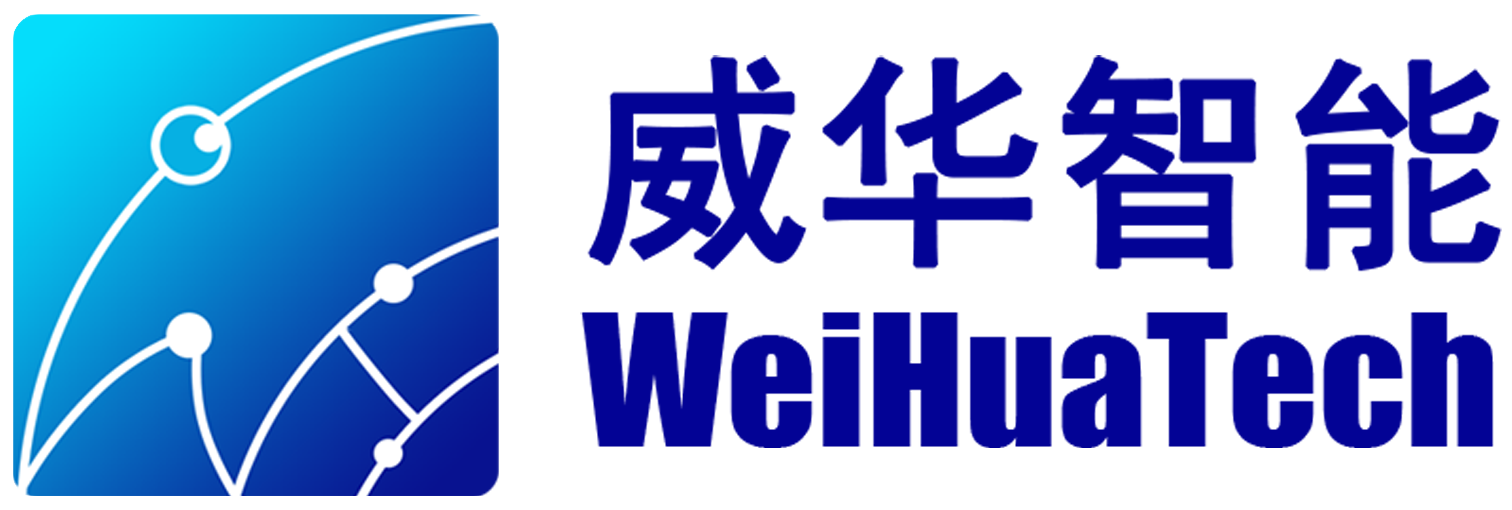
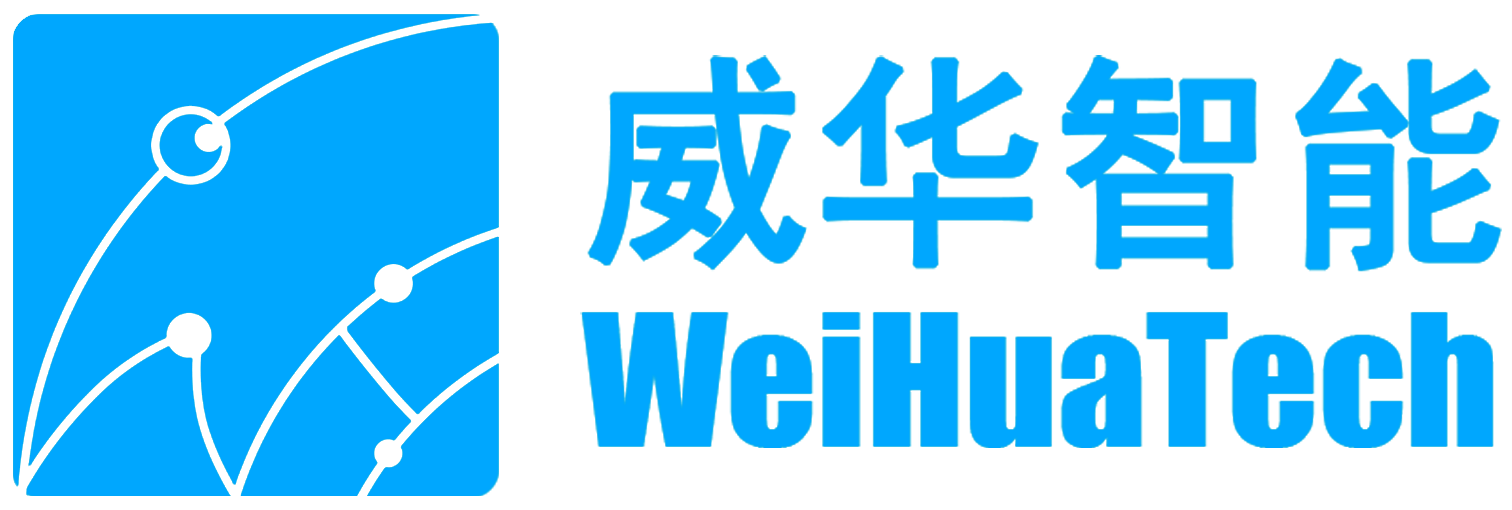
尽量不要设置字体颜色 让其随色系自动变化

diff --git a/MainWindow.xaml b/MainWindow.xaml
@@ -228,7 +228,7 @@
                 <TextBlock Grid.Column="1"
                            HorizontalAlignment="Right"
                            Text="C:\User\AppData\..."
-                           Foreground="#FFCAE1FF" />
+                            />
             </Grid>
         </DockPanel>
 
